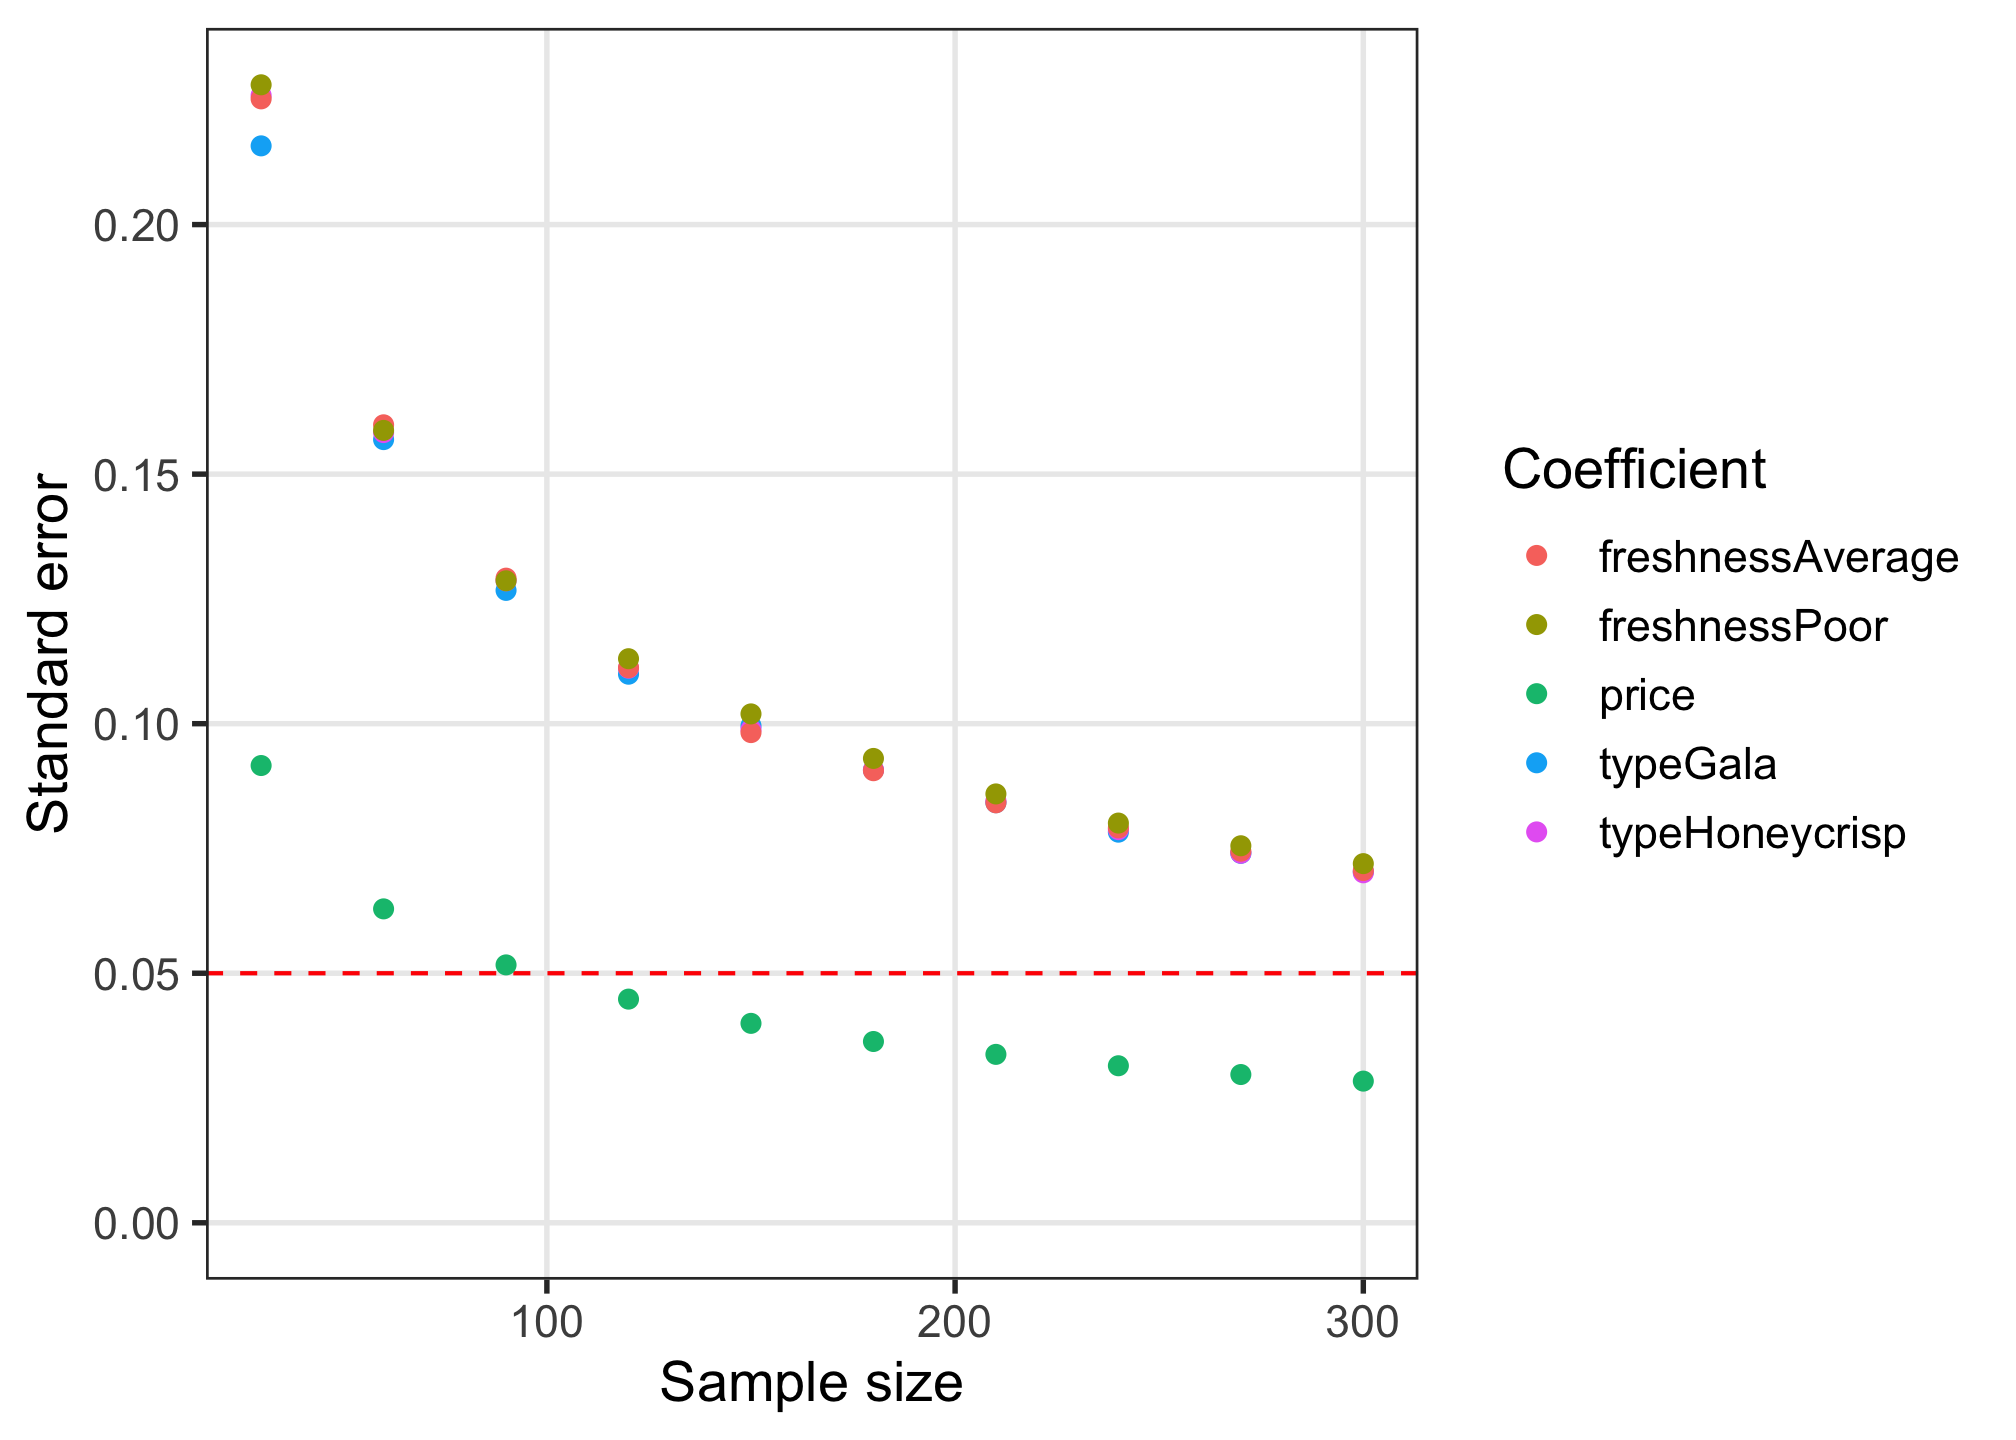
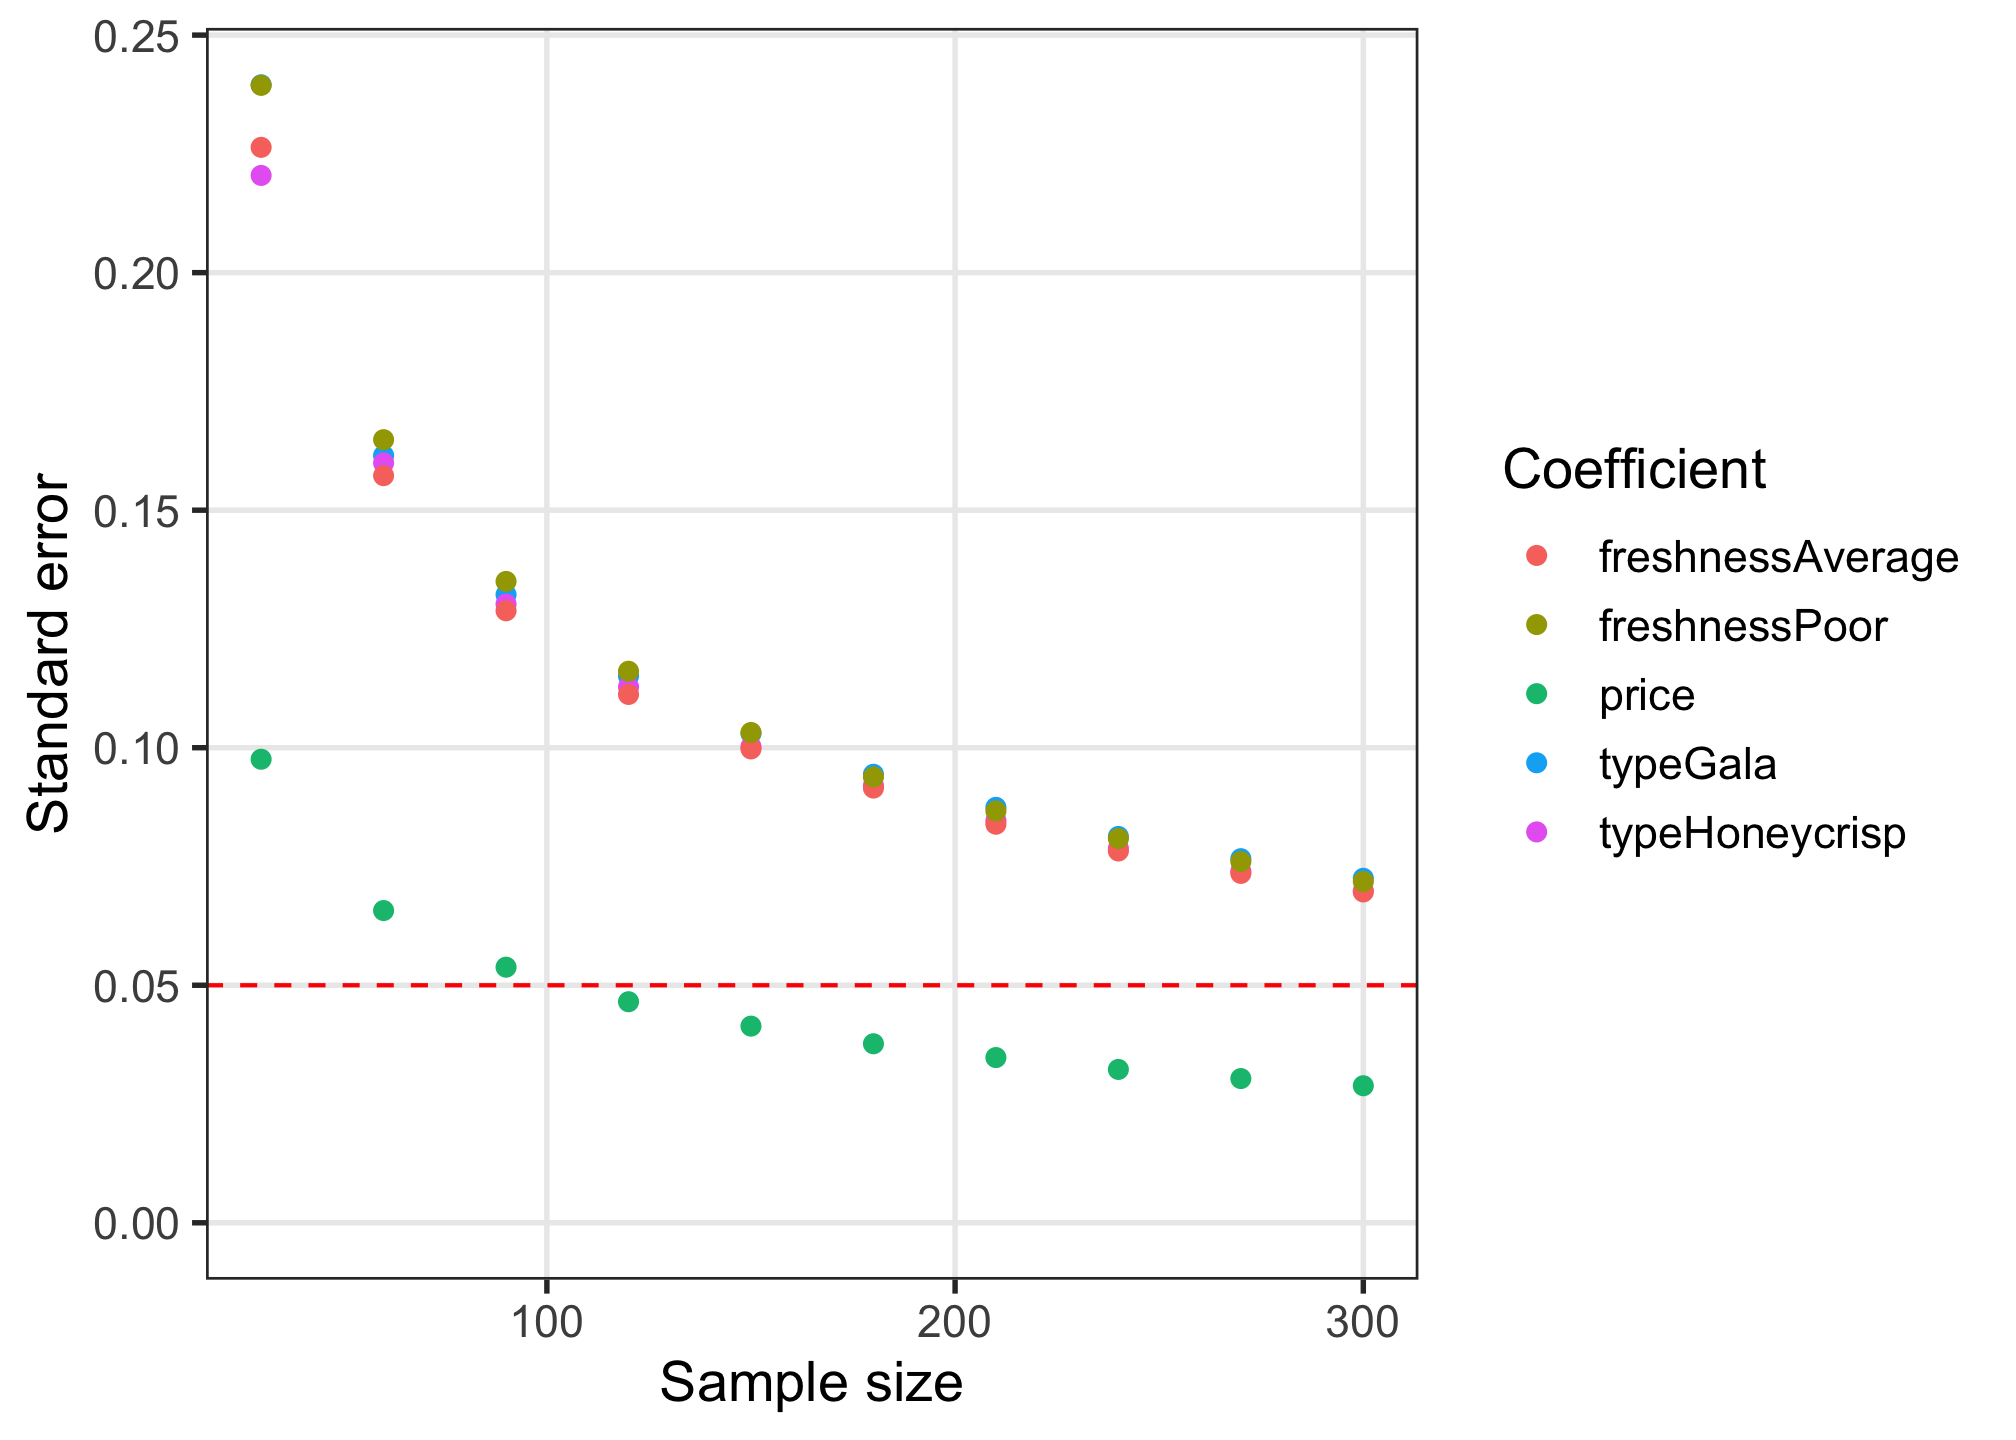
update readme

diff --git a/README.md b/README.md
@@ -148,12 +148,12 @@ dim(design)  # View dimensions
 #> [1] 5400    8
 head(design) # Preview first 6 rows
 #>   respID qID altID obsID profileID price       type freshness
-#> 1      1   1     1     1        32   2.5       Gala   Average
-#> 2      1   1     2     1        38   2.0 Honeycrisp   Average
-#> 3      1   1     3     1        29   1.0       Gala   Average
-#> 4      1   2     1     2        29   1.0       Gala   Average
-#> 5      1   2     2     2        35   4.0       Gala   Average
-#> 6      1   2     3     2        27   3.5       Fuji   Average
+#> 1      1   1     1     1        10   2.0       Gala Excellent
+#> 2      1   1     2     1        30   1.5       Gala   Average
+#> 3      1   1     3     1        43   1.0       Fuji      Poor
+#> 4      1   2     1     2        21   4.0 Honeycrisp Excellent
+#> 5      1   2     2     2        14   4.0       Gala Excellent
+#> 6      1   2     3     2         3   2.0       Fuji Excellent
 ```
 
 For now, the `cbc_design()` function only generates a randomized design.
@@ -195,12 +195,12 @@ dim(design_labeled)
 #> [1] 5400    8
 head(design_labeled)
 #>   respID qID altID obsID profileID price       type freshness
-#> 1      1   1     1     1         6   3.5       Fuji Excellent
-#> 2      1   1     2     1        29   1.0       Gala   Average
-#> 3      1   1     3     1        57   1.0 Honeycrisp      Poor
-#> 4      1   2     1     2        48   3.5       Fuji      Poor
-#> 5      1   2     2     2        13   3.5       Gala Excellent
-#> 6      1   2     3     2        19   3.0 Honeycrisp Excellent
+#> 1      1   1     1     1        48   3.5       Fuji      Poor
+#> 2      1   1     2     1        14   4.0       Gala Excellent
+#> 3      1   1     3     1        17   2.0 Honeycrisp Excellent
+#> 4      1   2     1     2         5   3.0       Fuji Excellent
+#> 5      1   2     2     2        31   2.0       Gala   Average
+#> 6      1   2     3     2        61   3.0 Honeycrisp      Poor
 ```
 
 In the above example, you can see in the first six rows of the survey
@@ -228,19 +228,19 @@ dim(design_nochoice)
 #> [1] 7200   13
 head(design_nochoice)
 #>   respID qID altID obsID profileID price type_Fuji type_Gala type_Honeycrisp
-#> 1      1   1     1     1        37   1.5         0         0               1
-#> 2      1   1     2     1        61   3.0         0         0               1
-#> 3      1   1     3     1        12   3.0         0         1               0
+#> 1      1   1     1     1         6   3.5         1         0               0
+#> 2      1   1     2     1        18   2.5         0         0               1
+#> 3      1   1     3     1        38   2.0         0         0               1
 #> 4      1   1     4     1         0   0.0         0         0               0
-#> 5      1   2     1     2         1   1.0         1         0               0
-#> 6      1   2     2     2        60   2.5         0         0               1
+#> 5      1   2     1     2        47   3.0         1         0               0
+#> 6      1   2     2     2        37   1.5         0         0               1
 #>   freshness_Excellent freshness_Average freshness_Poor no_choice
-#> 1                   0                 1              0         0
-#> 2                   0                 0              1         0
-#> 3                   1                 0              0         0
+#> 1                   1                 0              0         0
+#> 2                   1                 0              0         0
+#> 3                   0                 1              0         0
 #> 4                   0                 0              0         1
-#> 5                   1                 0              0         0
-#> 6                   0                 0              1         0
+#> 5                   0                 0              1         0
+#> 6                   0                 1              0         0
 ```
 
 ## Inspecting survey designs
@@ -260,17 +260,17 @@ cbc_balance(design)
 #> price:
 #> 
 #>   1 1.5   2 2.5   3 3.5   4 
-#> 789 747 743 812 760 794 755 
+#> 724 794 799 782 753 798 750 
 #> 
 #> type:
 #> 
 #>       Fuji       Gala Honeycrisp 
-#>       1830       1798       1772 
+#>       1814       1761       1825 
 #> 
 #> freshness:
 #> 
 #> Excellent   Average      Poor 
-#>      1821      1793      1786 
+#>      1837      1788      1775 
 #> 
 #> ==============================
 #> Pairwise attribute counts:
@@ -278,31 +278,31 @@ cbc_balance(design)
 #> price & type:
 #>      
 #>       Fuji Gala Honeycrisp
-#>   1    274  273        242
-#>   1.5  239  267        241
-#>   2    229  242        272
-#>   2.5  268  266        278
-#>   3    266  243        251
-#>   3.5  279  265        250
-#>   4    275  242        238
+#>   1    233  232        259
+#>   1.5  272  260        262
+#>   2    273  274        252
+#>   2.5  261  252        269
+#>   3    256  242        255
+#>   3.5  268  251        279
+#>   4    251  250        249
 #> 
 #> price & freshness:
 #>      
 #>       Excellent Average Poor
-#>   1         272     258  259
-#>   1.5       247     255  245
-#>   2         241     261  241
-#>   2.5       269     246  297
-#>   3         249     262  249
-#>   3.5       267     266  261
-#>   4         276     245  234
+#>   1         230     251  243
+#>   1.5       273     253  268
+#>   2         272     260  267
+#>   2.5       286     254  242
+#>   3         258     254  241
+#>   3.5       264     269  265
+#>   4         254     247  249
 #> 
 #> type & freshness:
 #>             
 #>              Excellent Average Poor
-#>   Fuji             601     622  607
-#>   Gala             587     610  601
-#>   Honeycrisp       633     561  578
+#>   Fuji             585     614  615
+#>   Gala             592     585  584
+#>   Honeycrisp       660     589  576
 ```
 
 The `cbc_overlap()` function prints out a summary of the amount of
@@ -322,17 +322,17 @@ cbc_overlap(design)
 #> price:
 #> 
 #>    1    2    3 
-#>   30  619 1151 
+#>   25  616 1159 
 #> 
 #> type:
 #> 
 #>    1    2    3 
-#>  167 1217  416 
+#>  158 1228  414 
 #> 
 #> freshness:
 #> 
 #>    1    2    3 
-#>  181 1204  415
+#>  182 1216  402
 ```
 
 ## Simulating choices
@@ -348,12 +348,12 @@ data <- cbc_choices(
 
 head(data)
 #>   respID qID altID obsID profileID price       type freshness choice
-#> 1      1   1     1     1        32   2.5       Gala   Average      1
-#> 2      1   1     2     1        38   2.0 Honeycrisp   Average      0
-#> 3      1   1     3     1        29   1.0       Gala   Average      0
-#> 4      1   2     1     2        29   1.0       Gala   Average      0
-#> 5      1   2     2     2        35   4.0       Gala   Average      1
-#> 6      1   2     3     2        27   3.5       Fuji   Average      0
+#> 1      1   1     1     1        10   2.0       Gala Excellent      0
+#> 2      1   1     2     1        30   1.5       Gala   Average      1
+#> 3      1   1     3     1        43   1.0       Fuji      Poor      0
+#> 4      1   2     1     2        21   4.0 Honeycrisp Excellent      0
+#> 5      1   2     2     2        14   4.0       Gala Excellent      0
+#> 6      1   2     3     2         3   2.0       Fuji Excellent      1
 ```
 
 You can also pass a list of prior parameters to define a utility model
@@ -434,21 +434,21 @@ results <- cbc_power(
 )
 
 head(results)
-#>   sampleSize             coef        est         se
-#> 1         30            price 0.23334650 0.09530587
-#> 2         30         typeGala 0.09621803 0.22031408
-#> 3         30   typeHoneycrisp 0.30386191 0.22944870
-#> 4         30 freshnessAverage 0.18255883 0.22940608
-#> 5         30    freshnessPoor 0.20622399 0.22436391
-#> 6         60            price 0.11241994 0.06525733
+#>   sampleSize             coef          est         se
+#> 1         30            price -0.003496871 0.09075320
+#> 2         30         typeGala -0.107772895 0.22341468
+#> 3         30   typeHoneycrisp  0.223392471 0.21903106
+#> 4         30 freshnessAverage -0.018088982 0.22853611
+#> 5         30    freshnessPoor  0.047667302 0.21473040
+#> 6         60            price  0.035007108 0.06526043
 tail(results)
-#>    sampleSize             coef         est         se
-#> 45        270    freshnessPoor -0.01987296 0.07323306
-#> 46        300            price  0.04031228 0.02877961
-#> 47        300         typeGala  0.03099731 0.07019711
-#> 48        300   typeHoneycrisp  0.11803237 0.06992097
-#> 49        300 freshnessAverage -0.08026328 0.06995029
-#> 50        300    freshnessPoor -0.04115621 0.06951151
+#>    sampleSize             coef          est         se
+#> 45        270    freshnessPoor  0.030058873 0.07405703
+#> 46        300            price  0.033320430 0.02907289
+#> 47        300         typeGala  0.044571885 0.06980725
+#> 48        300   typeHoneycrisp -0.074113825 0.06954693
+#> 49        300 freshnessAverage  0.010923880 0.07039688
+#> 50        300    freshnessPoor -0.006226523 0.07023654
 ```
 
 The `results` object is a data frame containing the coefficient
@@ -469,7 +469,7 @@ object generated in each step is used as the first argument to the
 function for the next step. Thus, just like in the overall program
 diagram, the functions can be piped together:
 
-!()\[man/figures/process.png\]
+![](man/figures/process.png)
 
 ``` r
 cbc_profiles(
